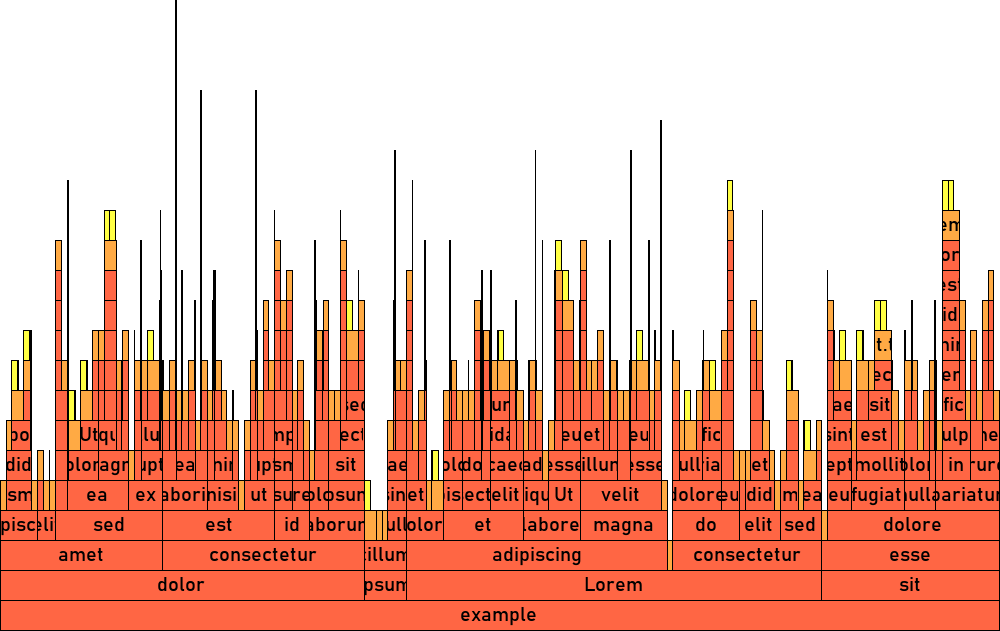
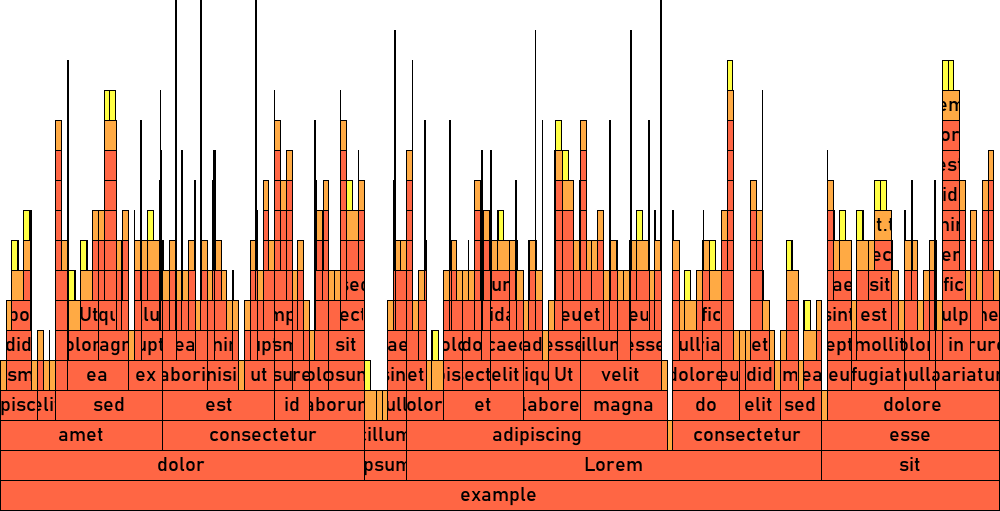
Trim example flame graph

Changed region(s): [[0.0, 0.1174, 1.0, 1.0], [0.155, 0.2935, 0.217, 0.4403]]

diff --git a/README.md b/README.md
@@ -11,7 +11,7 @@ These can be useful for simultaneously identifying which files and folders are t
 ![Example flame graph with red-orange, orange, and yellow blocks on a transparent background](https://github.com/the-can-of-soup/winflame/blob/main/docs/assets/example.png?raw=true)\
 _In this example, the red-orange blocks are directories, the orange blocks are files, and the yellow blocks are alternate data streams. The width of the blocks is proportional to their size on disk._
 
-This example was generated with the command `winflame -b example -FPw 1000 -H 30 -G 20 -B #0000 -0 #f64f -1 #fa4f -2 #ff4f`,
+This example was generated with the command `winflame -b example -FPw 1000 -H 30 -G 20 -m 16 -B #0000 -0 #f64f -1 #fa4f -2 #ff4f`,
 after generating the `example` folder using [a script](https://github.com/the-can-of-soup/winflame/blob/main/scripts/generate_example.py). However, if you don't care about customization, a command as
 simple as `winflame -b example -PFw 1000` would do.
 
